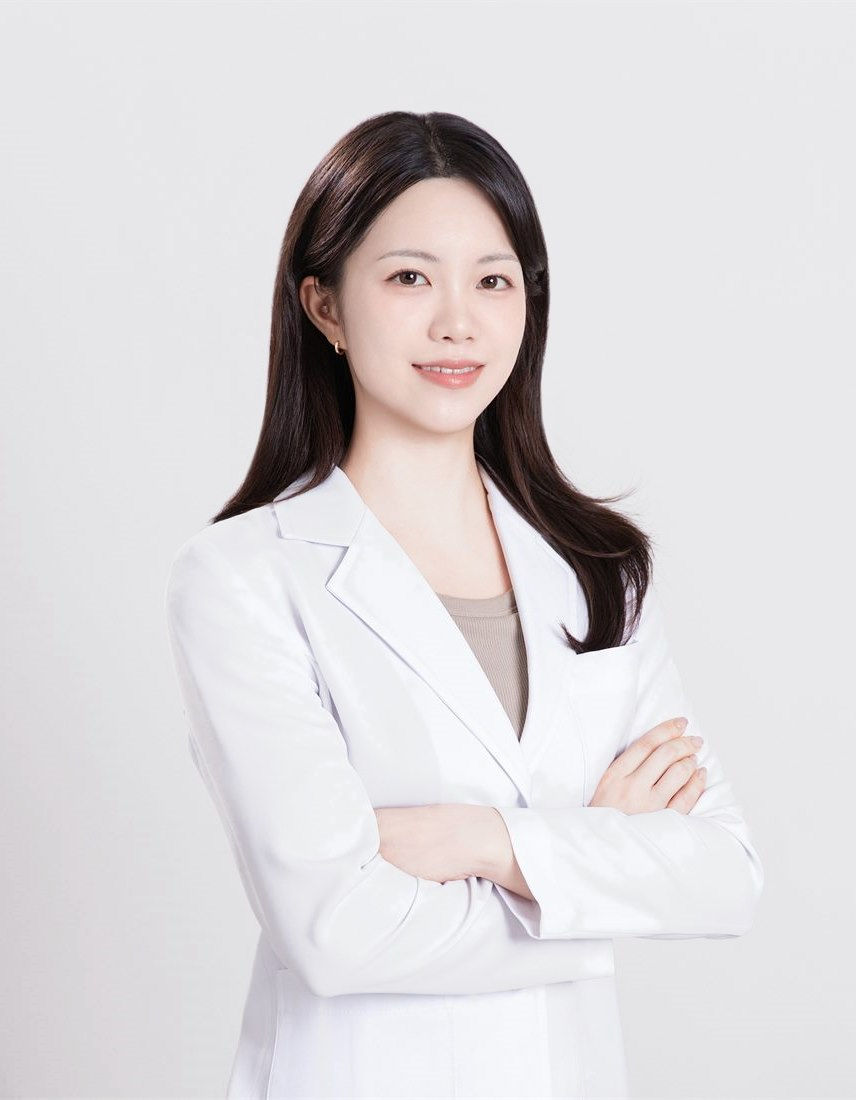
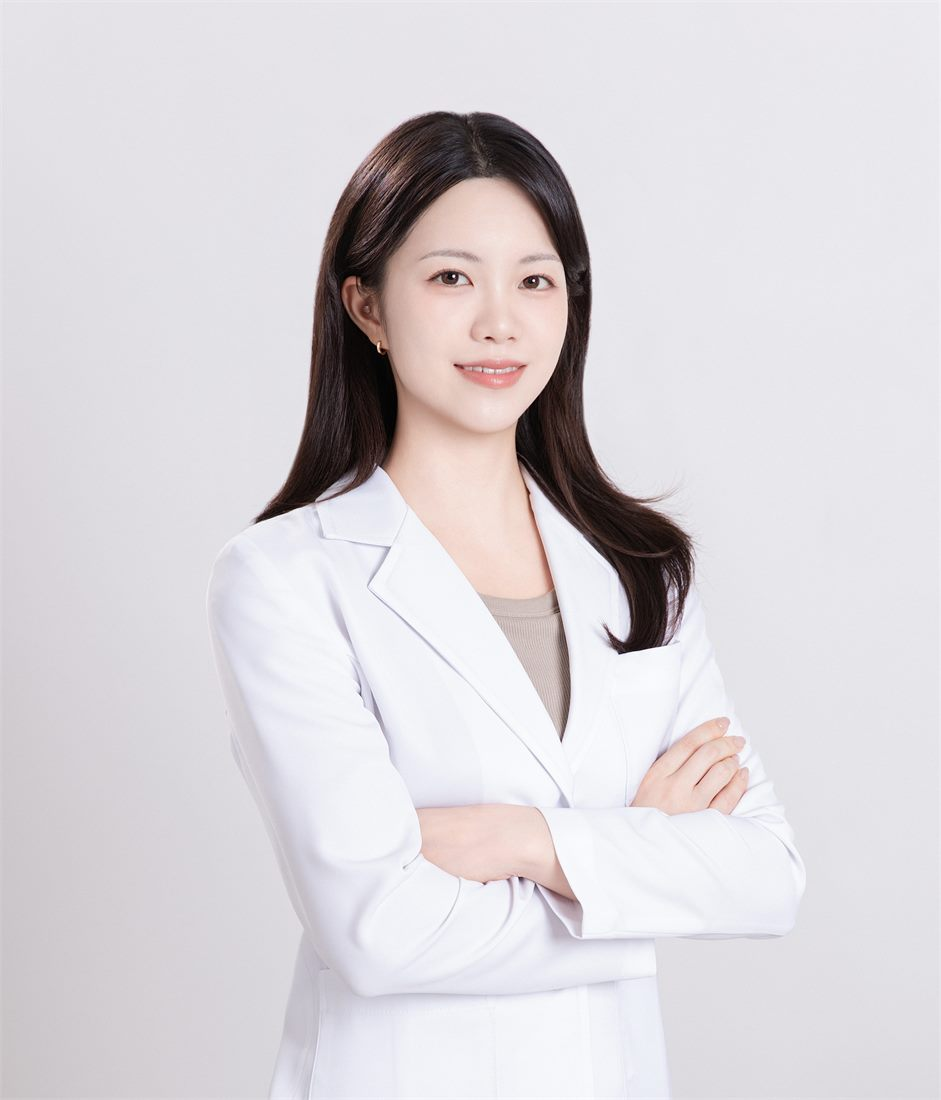
원장 사진을 처음 사진으로 되돌리고 정유한 원장 머리 잘림만 해결
- 민수연·정유한·오경진·강소진 배경톤 보정을 취소하고 원본 사진으로 복원
  (보정 결과가 어색하다는 판단, 웹용 리사이즈만 적용된 상태)
- 정유한 원장 사진은 비율(0.666)이 카드 슬롯(7:9)보다 좁아 위아래가 잘리는데,
  사진은 그대로 두고 object-top 으로 잘리는 위치만 아래로 옮겨 머리를 보존
- 사진 크기 변경에 맞춰 width/height 속성 원복

diff --git a/index.html b/index.html
@@ -725,7 +725,7 @@
         </div>
       </article>
       <article class="bg-white rounded-2xl overflow-hidden shadow-soft border border-line flex flex-col">
-        <img src="assets/images/doctor-min.jpg" alt="민수연 대표원장" class="w-full object-cover aspect-[7/9]" width="856" height="1100" loading="lazy" decoding="async">
+        <img src="assets/images/doctor-min.jpg" alt="민수연 대표원장" class="w-full object-cover aspect-[7/9]" width="789" height="1100" loading="lazy" decoding="async">
         <div class="p-6 flex-1 flex flex-col">
           <div class="flex items-center gap-2 flex-wrap">
             <h3 class="text-xl font-bold">민수연</h3>
@@ -738,7 +738,7 @@
         </div>
       </article>
       <article class="bg-white rounded-2xl overflow-hidden shadow-soft border border-line flex flex-col">
-        <img src="assets/images/doctor-jung.jpg" alt="정유한 대표원장" class="w-full object-cover aspect-[7/9]" width="856" height="1100" loading="lazy" decoding="async">
+        <img src="assets/images/doctor-jung.jpg" alt="정유한 대표원장" class="w-full object-cover object-top aspect-[7/9]" width="733" height="1100" loading="lazy" decoding="async">
         <div class="p-6 flex-1 flex flex-col">
           <div class="flex items-center gap-2 flex-wrap">
             <h3 class="text-xl font-bold">정유한</h3>
@@ -751,7 +751,7 @@
         </div>
       </article>
       <article class="bg-white rounded-2xl overflow-hidden shadow-soft border border-line flex flex-col">
-        <img src="assets/images/doctor-oh.jpg" alt="오경진 대표원장" class="w-full object-cover aspect-[7/9]" width="856" height="1100" loading="lazy" decoding="async">
+        <img src="assets/images/doctor-oh.jpg" alt="오경진 대표원장" class="w-full object-cover aspect-[7/9]" width="826" height="1100" loading="lazy" decoding="async">
         <div class="p-6 flex-1 flex flex-col">
           <div class="flex items-center gap-2 flex-wrap">
             <h3 class="text-xl font-bold">오경진</h3>
@@ -763,7 +763,7 @@
         </div>
       </article>
       <article class="bg-white rounded-2xl overflow-hidden shadow-soft border border-line flex flex-col">
-        <img src="assets/images/doctor-kang.jpg" alt="강소진 대표원장" class="w-full object-cover aspect-[7/9]" width="856" height="1100" loading="lazy" decoding="async">
+        <img src="assets/images/doctor-kang.jpg" alt="강소진 대표원장" class="w-full object-cover aspect-[7/9]" width="941" height="1100" loading="lazy" decoding="async">
         <div class="p-6 flex-1 flex flex-col">
           <div class="flex items-center gap-2 flex-wrap">
             <h3 class="text-xl font-bold">강소진</h3>
